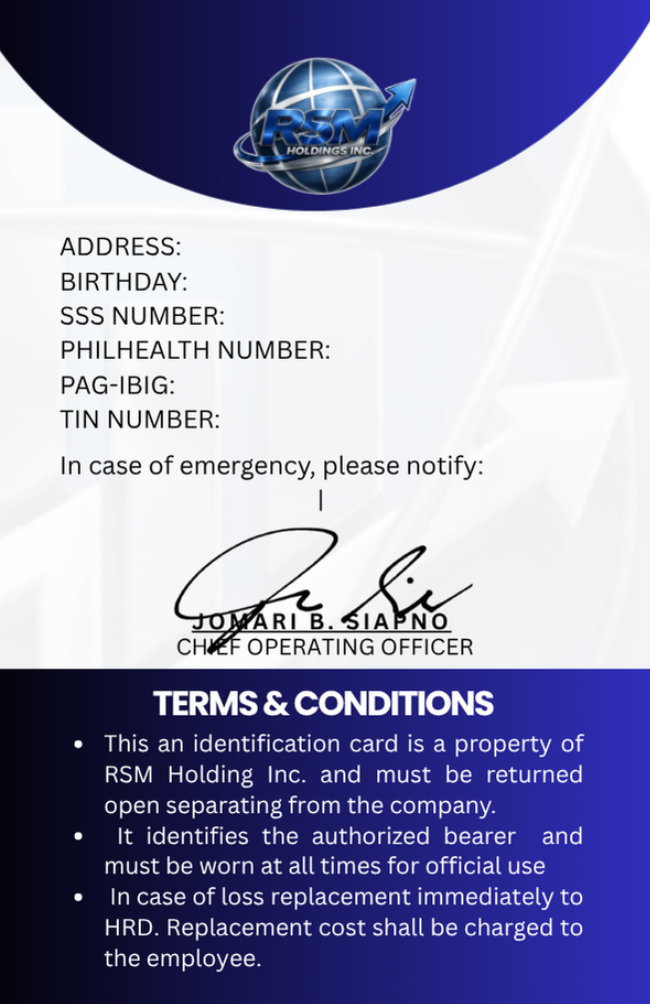
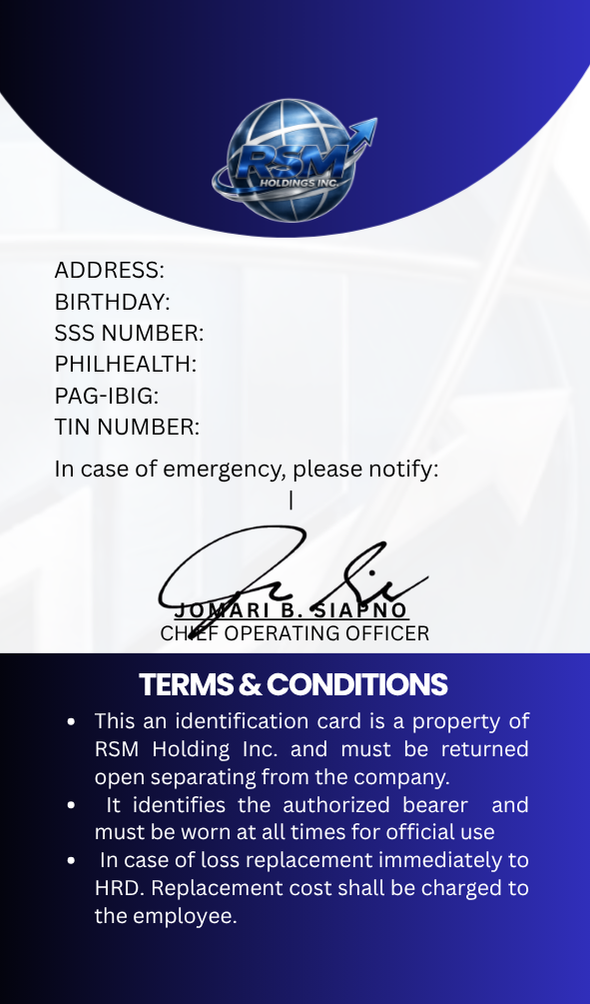
update rsm id

Changed region(s): [[0.0, 0.5249, 1.0, 0.988], [0.0, 0.0309, 1.0, 0.494], [0.7017, 0.5558, 0.7322, 0.5867]]

diff --git a/frontend/view_id.html b/frontend/view_id.html
@@ -483,14 +483,14 @@
                 drawBackground(ctx, LOADED.bgB);
                 if (state.companyCode === 'RSM') {
                     // RSM Back details
-                    drawTextWithOutline(ctx, ADDRESS(u), 250, 255, 'left', '#111', 400, 23);
-                    drawTextWithOutline(ctx, fmtBday(u.birthday), 250, 289, 'left', '#111', 400, 25);
-                    drawTextWithOutline(ctx, u.sss || '', 250, 325, 'left', '#111', 400, 25);
-                    drawTextWithOutline(ctx, u.philhealth || '', 315, 358, 'left', '#111', 400, 25);
-                    drawTextWithOutline(ctx, u.pagibig || '', 250, 395, 'left', '#111', 400, 25);
-                    drawTextWithOutline(ctx, u.tin || '', 250, 428, 'left', '#111', 400, 25);
+                    drawTextWithOutline(ctx, ADDRESS(u), 220, 277, 'left', '#111', 400, 23);
+                    drawTextWithOutline(ctx, fmtBday(u.birthday), 220, 310, 'left', '#111', 400, 25);
+                    drawTextWithOutline(ctx, u.sss || '', 220, 343, 'left', '#111', 400, 25);
+                    drawTextWithOutline(ctx, u.philhealth || '', 220, 373, 'left', '#111', 400, 25);
+                    drawTextWithOutline(ctx, u.pagibig || '', 220, 403, 'left', '#111', 400, 25);
+                    drawTextWithOutline(ctx, u.tin || '', 220, 435, 'left', '#111', 400, 25);
 
-                    drawTextWithOutline(ctx, (u.e_name || '').toUpperCase(), 30, 510, 'left', '#111', 400, 23)
+                    drawTextWithOutline(ctx, (u.e_name || '').toUpperCase(), 53, 510, 'left', '#111', 400, 23)
                     drawTextWithOutline(ctx, u.e_contact || '', 300, 510, 'left', '#111', 400, 25);
                 } else if (state.companyCode === 'HVN') {
                     // HVN Back details
